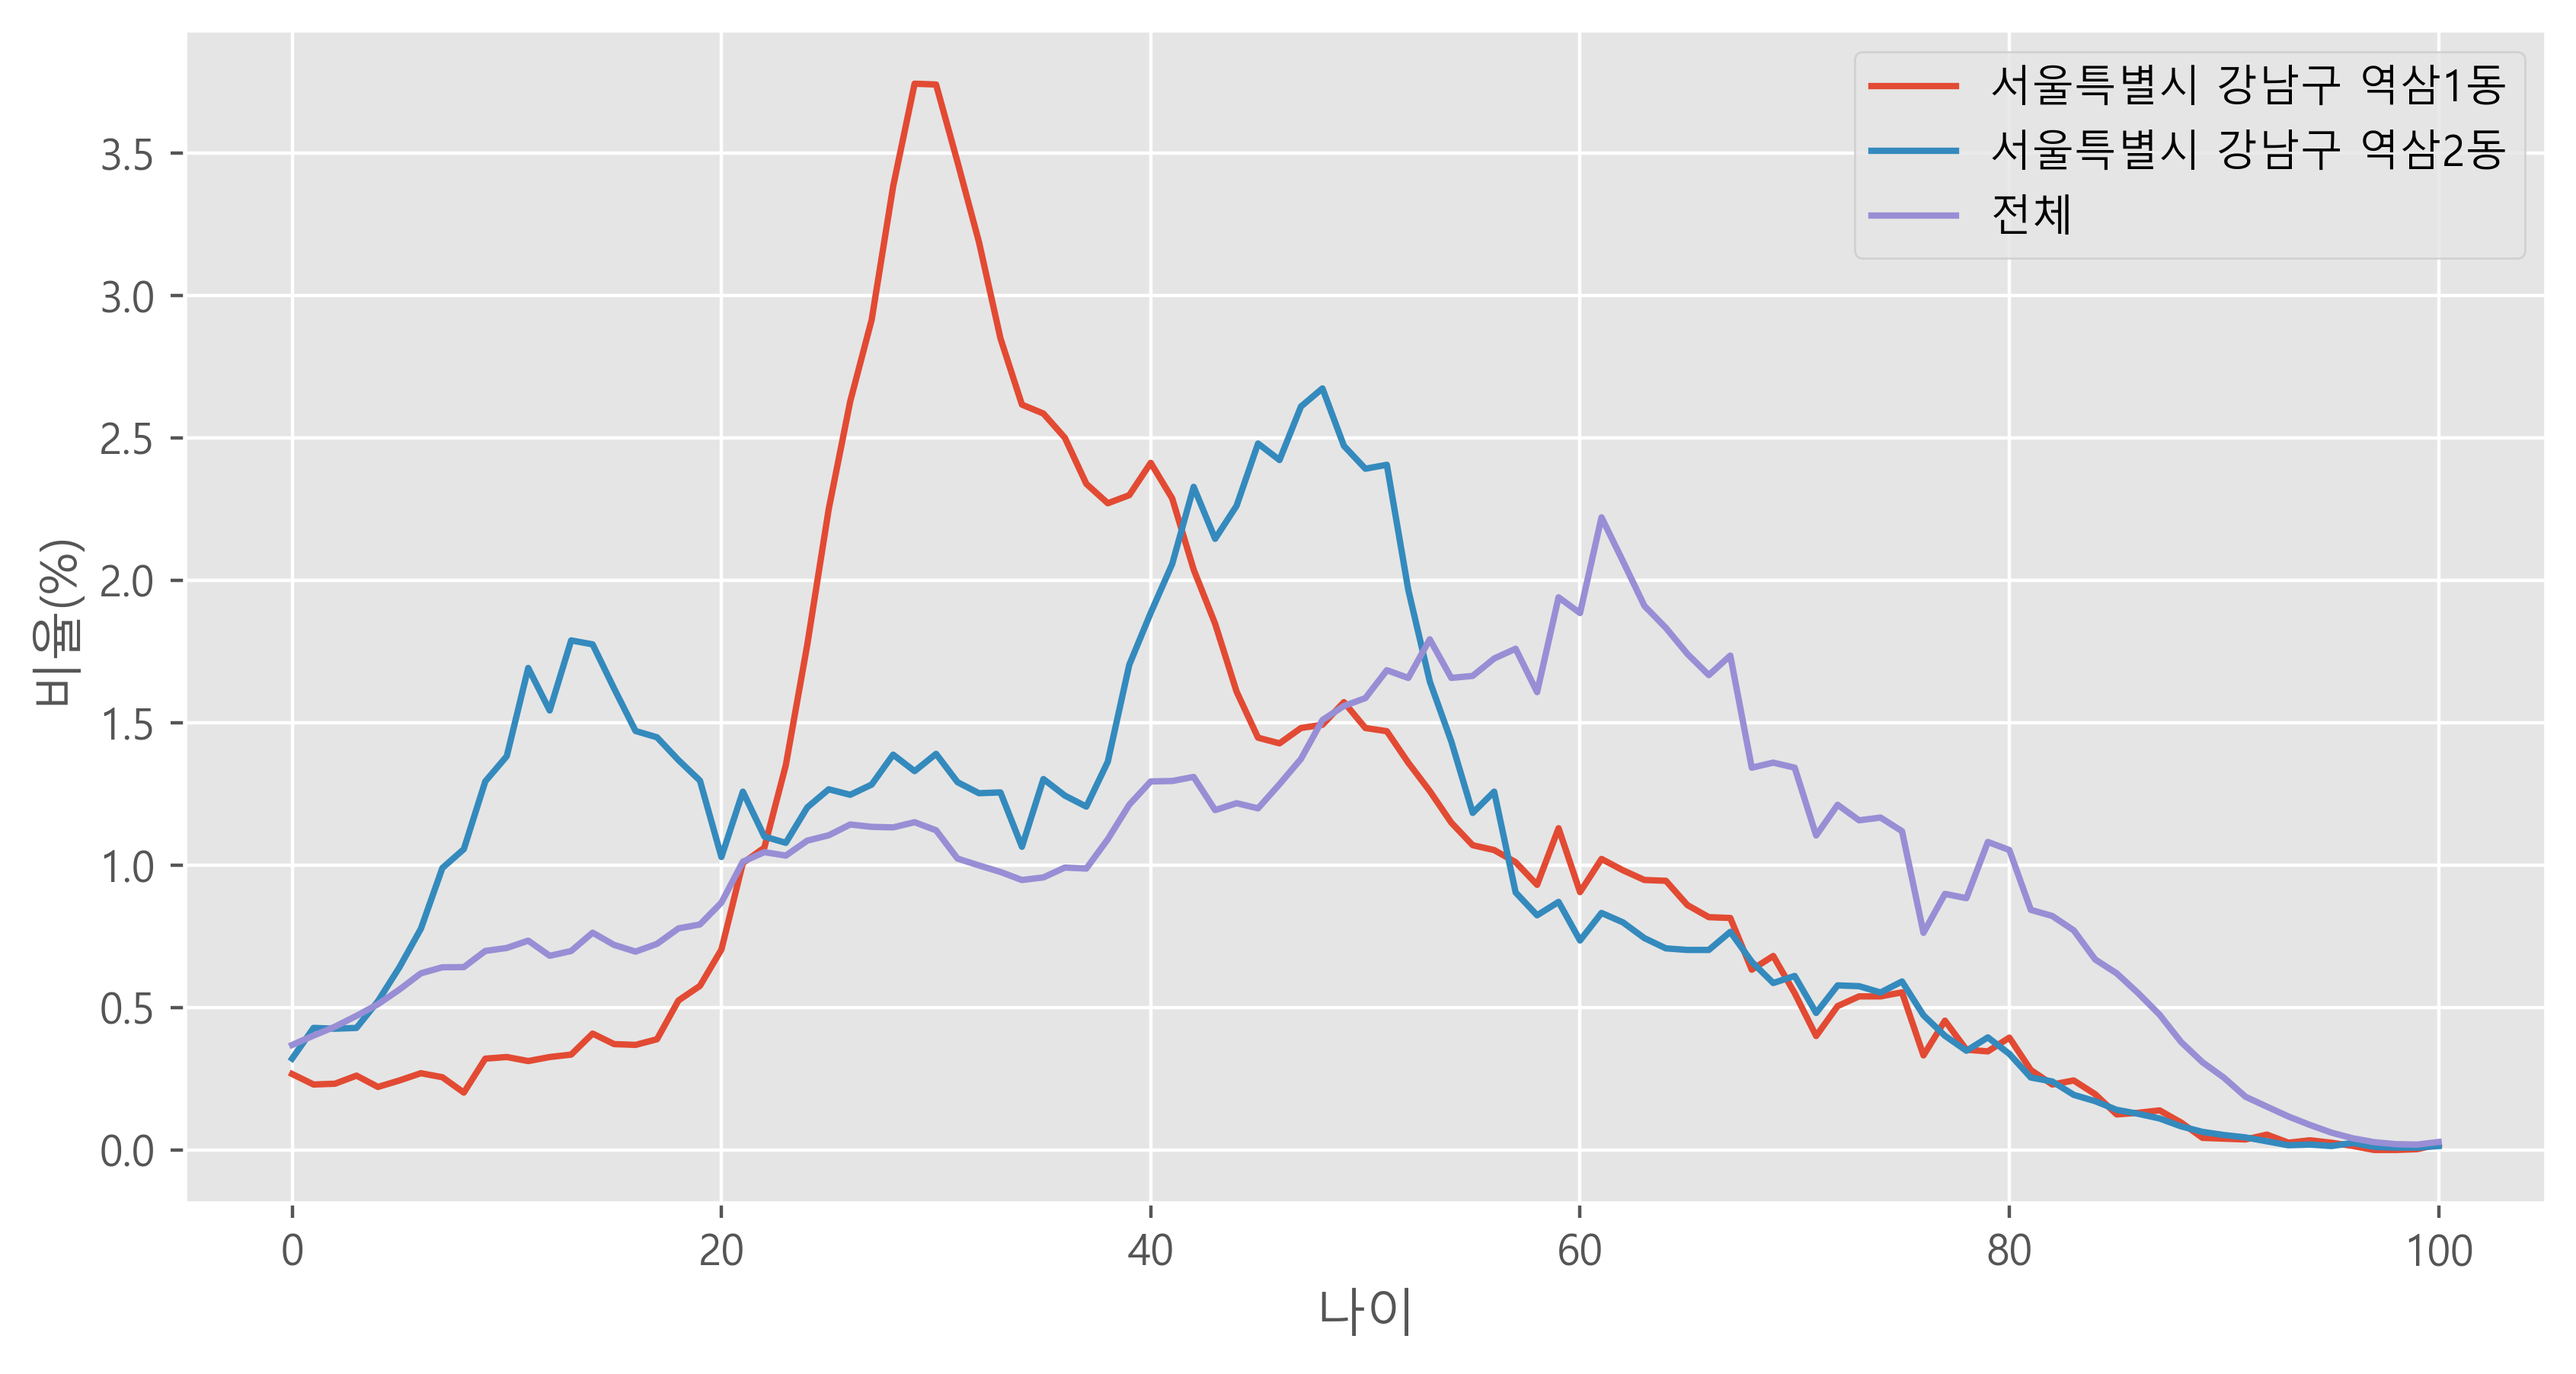
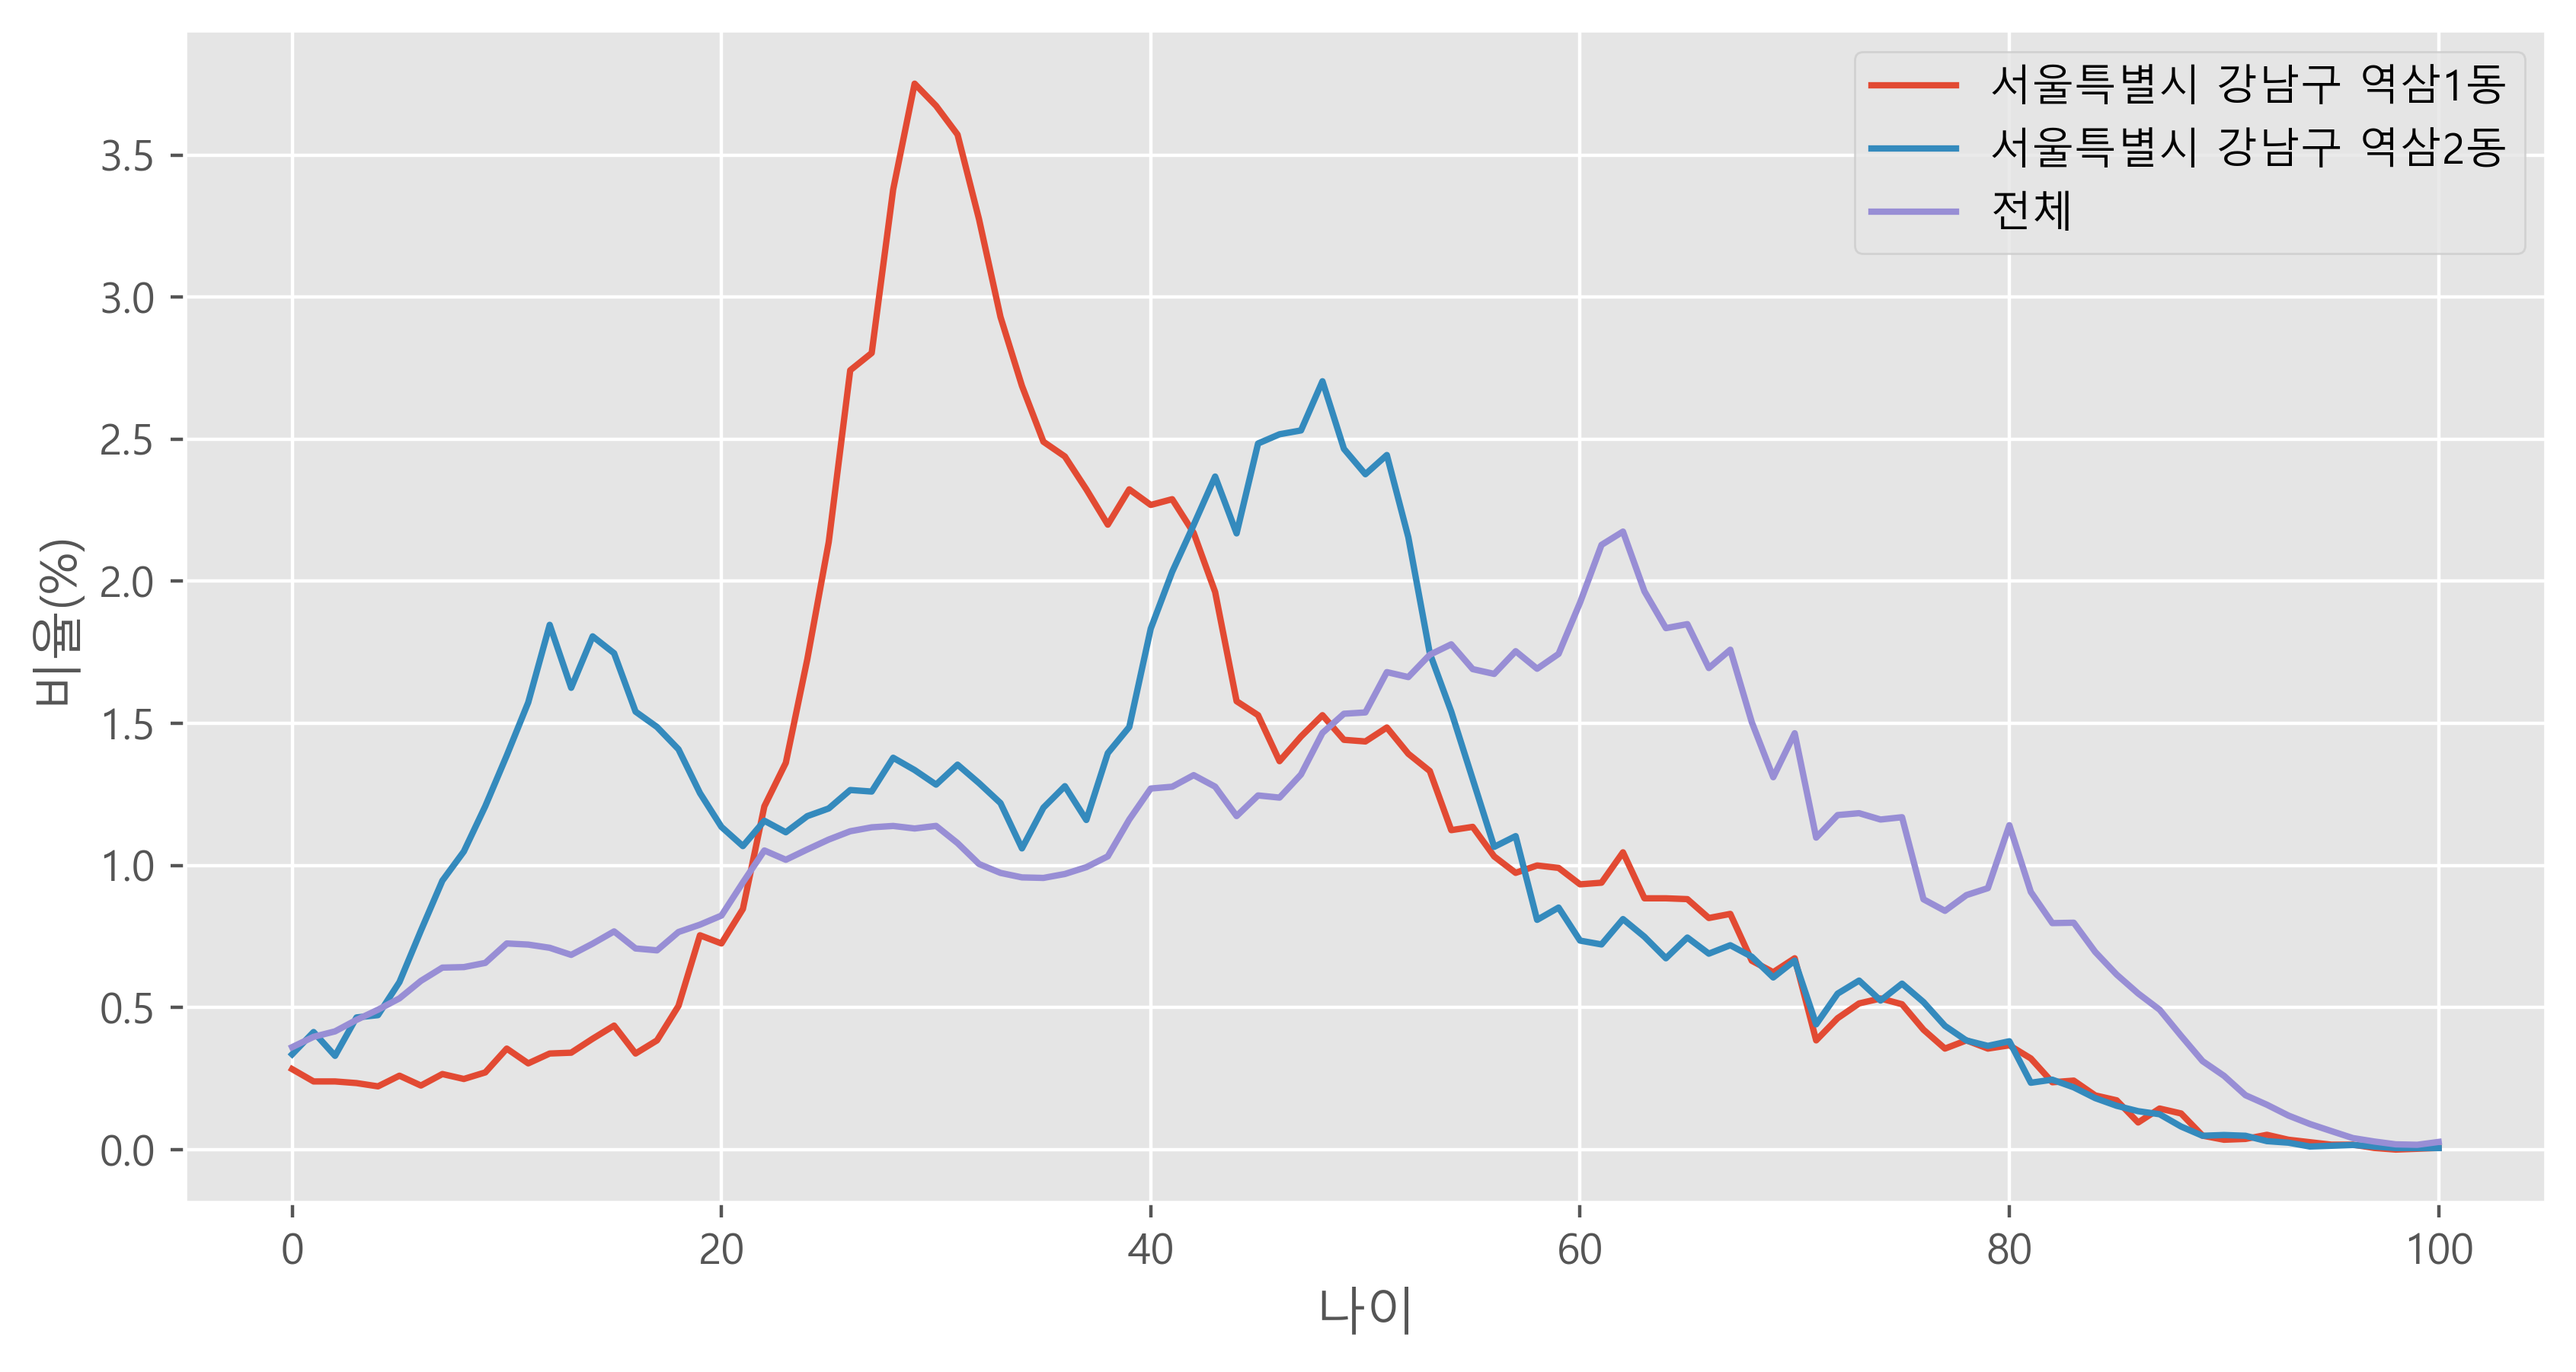
'20221209-0942'

diff --git a/수업소스/test1208_a.py b/수업소스/test1208_a.py
@@ -1,0 +1,249 @@
+# -*- coding: utf-8 -*-
+"""
+Created on Thu Dec  8 16:40:07 2022
+
+@author: KITCOOP
+test1208_a.py
+"""
+
+'''
+1. age.csv 파일에서 해당 지역의 인구비율과 전체지역의 인구 비율을 함께  
+   그래프로 작성하기
+   20221208-1.png 참조   
+'''
+###################### 1 #######################
+import numpy as np
+import csv
+import matplotlib.pyplot as plt
+import re
+f =open('data/age.csv')
+data = csv.reader(f)  #기본 인코딩:cp949. 맥:기본인코딩:UTF-8
+# data = csv.reader(f,encoding="cp949") #
+next(data) #한줄 읽기 첫줄을 버림.
+data=list(data) #리스트로 변경. IO스트림형태는 다시 읽기 못함.
+name='역삼' #행정구역이름이 역삼 이름이 있는 모든 지역 조회
+homelist=[]  #역삼이 있는 행정구역의 데이터들
+namelist=[]  #실제 행정 구역 이름 목록
+for row in data :
+     if row[0].find(name) >= 0 :
+        #숫자의 ,값을 제거 
+        row = list(map((lambda x:x.replace(",","")),row))
+        homelist.append \
+            (np.array(row[3:], dtype =int) / int(row[2]) *100) #비율%
+        namelist.append(re.sub('\(\\d*\)', '', row[0])) #() 제거
+        alldata = np.array(row[3:], dtype =int) / int(row[2])*100
+
+#전체 지역의 데이터 alldata에 저장
+for row in data :
+    row = list(map((lambda x:x.replace(",","")),row))
+    away = np.array(row[3:], dtype = int) / int(row[2]) *100
+    #np.isnan : 결측값?
+    if np.isnan(away).any() :  #away 데이터셋에 한개라도NA값이 존재하면 
+        continue    #반복문의 처음으로 
+    #vstack : 배열 행을 기준으로 합하기    
+    alldata = np.vstack((alldata,away))  #행을 기준으로 연결
+
+#연령별 연령별인구수/전체인구수 평균값
+alldata = alldata.mean(axis=0)  #열별 평균
+plt.style.use('ggplot')
+plt.figure(figsize = (10,5), dpi=100)
+plt.rc('font', family ='Malgun Gothic')
+for h,n in zip(homelist,namelist) :
+    plt.plot(h,label=n) 
+plt.plot(alldata, label="전체")
+plt.xlabel("나이")    
+plt.ylabel("비율(%)")    
+plt.legend()
+plt.show()
+plt.savefig("20221208-1.png",dpi=400,bbox_inches="tight")
+
+###################### 2 #######################
+import pandas as pd
+df = pd.read_csv\
+   ("data/age.csv",encoding="cp949",thousands=",",index_col=0)
+df.info()
+#컬럼명 다시 설정
+col_name=['총인구수','연령구간인구수']
+for i in range(0,101) : #0~100
+    col_name.append(str(i)+'세')
+col_name    
+df.columns = col_name
+df.columns
+#df의 모든 컬럼들을 총인구수로 나누기. 비율로 저장하기
+df = df.div(df["총인구수"],axis=0)
+del df["총인구수"],df["연령구간인구수"]
+df.info()
+df.fillna(0,inplace=True) #결측값을 0으로 치환
+name = "역삼"
+a = df.index.str.contains(name)
+a
+df2=df[a]
+df2 #지정 지역 데이터
+df2 *= 100  #비율%
+#이름들의 () 제거.
+names = list(df2.index)
+names = list(map(lambda x: x[:x.find('(')],names))
+df2.index = names
+df2.index
+#전체 인구수
+tot_mean = df.mean() * 100  #비율%
+tot_mean.name = "전체"
+df2.T.plot() #지정된 데이터 
+tot_mean.plot()
+plt.legend()
+plt.xlabel("나이")    
+plt.ylabel("비율(%)")    
+
+
+'''
+1-1. age.csv 파일에서 해당 지역의 인구비율과 
+    전체 인구 구조와 같은 지역 찾기
+'''
+###################### 1 #######################
+import numpy as np
+import csv
+import matplotlib.pyplot as plt
+import re
+f =open('data/age.csv')
+data = csv.reader(f)
+next(data) 
+data=list(data) 
+alldata = np.array([])
+for row in data :
+   row = list(map((lambda x:x.replace(",","")),row))
+   away = np.array(row[3:], dtype = int) / int(row[2])
+   if np.isnan(away).any() :  #away 데이터셋에 한개라도NA값이 존재하면 
+      continue 
+   if alldata.size == 0 :
+      alldata = away
+   else :   
+    alldata = np.vstack((alldata,away))  #행을 기준으로 연결
+
+#연령별 인구수/전체인구수 평균값
+alldata = alldata.mean(axis=0) 
+
+mn =1 
+for row in data:
+    row = list(map((lambda x:x.replace(",","")),row))
+    away = np.array(row[3:], dtype =int) /int(row[2])
+    s = np.sum((alldata - away) **2)
+    if s < mn:
+        mn = s
+        result = away
+        result_name =  row[0][:row[0].find('(')]
+        
+
+plt.style.use('ggplot')
+plt.figure(figsize = (10,5), dpi=100)            
+plt.rc('font', family ='Malgun Gothic')
+plt.title('전체 인구 구조와 가장 비슷한 인구 구조를 가진 지역')
+plt.plot(alldata, label = "전체")
+plt.plot(result, label = result_name)
+plt.xlabel("나이")    
+plt.ylabel("비율")    
+plt.legend()
+plt.show()
+plt.savefig("20221208-2.png",dpi=400,bbox_inches="tight")
+
+###################### 2 #######################
+import pandas as pd
+df = pd.read_csv("data/age.csv",encoding="cp949",thousands=",",index_col=0)
+df.info()
+col_name=['총인구수','연령구간인구수']
+for i in range(0,101) : #0~100
+    col_name.append(str(i)+'세')
+col_name    
+df.columns = col_name
+df.columns
+df = df.div(df["총인구수"],axis=0)
+
+del df["총인구수"],df["연령구간인구수"]
+df.info()
+df.fillna(0,inplace=True) #결측값을 0으로 치환
+tot_mean = df.mean()
+tot_mean.name="전체"
+mn=1
+for label,content in df.T.items() :
+    s=sum((content - tot_mean) ** 2)
+    if s < mn :
+        mn = s;
+        result = content
+        name = result.name
+        result.name = name[:name.find('(')]
+
+tot_mean.plot() #지정된 데이터 
+result.plot()
+plt.legend()        
+plt.title('전체 인구 구조와 가장 비슷한 인구 구조를 가진 지역')
+plt.xlabel("나이")    
+plt.ylabel("비율")    
+
+
+
+'''
+2. supplier_data.csv 파일을 pandas를 이용하여 읽고 
+ ["1/20/14","1/30/14"] 일자 데이터만 화면에 출력하기
+ isin() 함수 이용.
+'''
+
+import pandas as pd
+
+infile='data/supplier_data.csv'
+df = pd.read_csv(infile)
+print(df);
+print(df.info());
+importdate = ["1/20/14","1/30/14"]
+df_inset = df.loc[df["Purchase Date"].isin(importdate),:]
+df_inset = df[df["Purchase Date"].isin(importdate)]
+print(df_inset)
+
+
+'''
+3.  supplier_data.csv 파일 데이터에서 Invoice Number가 920으로
+ 시작하는 레코드만 화면에 출력하기
+ startswith("920") 함수 이용 : 920문자열로 시작?
+''' 
+infile='data/supplier_data.csv'
+df = pd.read_csv(infile)
+print(df["Invoice Number"].str.startswith("920"))
+df_inset = df.loc[df["Invoice Number"].str.startswith("920"),:]
+df_inset = df[df["Invoice Number"].str.startswith("920")]
+print(df_inset)
+
+'''
+4. sales_2013.xlsx 파일 중 Purchase Date 컬럼의 값이 
+"01/24/2013"과 "01/31/2013" 인 행만 sales_2013_01.xlsx 파일로 저장하기
+ isin 함수 사용.
+'''
+import pandas as pd
+infile="data/sales_2013.xlsx"
+outfile = "data/sales_2013_01.xlsx"
+df = pd.read_excel(infile,"january_2013")
+print(df.info())
+print(df.head())
+df
+#엑셀파일의 날짜형태의 데이터 
+select_date = ['01/24/2013','01/31/2013']
+#select_date = ['2013-01-24','2013-01-31']
+df_value = df[df['Purchase Date'].isin(select_date)]
+df_value
+print(df_value.info())
+writer = pd.ExcelWriter(outfile)
+df_value.to_excel(writer,sheet_name="jan_13_output",index=False)
+writer.save()
+
+
+'''
+5. seaborn 모듈의 titanic 데이터를 이용하여 class별  
+   생존 인원을 출력하시오
+''' 
+import seaborn as sns
+titanic = sns.load_dataset('titanic')
+titanic.info()
+titanic.groupby(['class']).survived.sum() #생존인원수
+titanic.groupby(['class'])["survived"].sum() #생존인원수
+table = titanic.pivot_table\
+    (index=['survived'], columns=['class'], aggfunc='size')
+table
+
+

diff --git a/수업소스/20221209.py b/수업소스/20221209.py
@@ -1,0 +1,29 @@
+# -*- coding: utf-8 -*-
+"""
+Created on Thu Dec  8 16:50:57 2022
+
+@author: KITCOOP
+20221209.py
+"""
+
+'''
+  데이터 전처리 : 원본데이터를 원하는 형태로 변경 과정. 
+    1. 결측값 처리 : 값이 없는 경우.
+        - isnull() : 결측값인 경우 True, 일반값인 경우 False
+        - notnull() : 결측값인 경우 False, 일반값인 경우 True
+        - dropna() : 결측값 제거 함수
+              dropna(axis=1,thresh=500) : 결측값이 500개 이상인 컬럼 제거
+              dropna(subser=[컬럼명],how=any/all, axis=0) :결측값을 가지고 있는 행 제거
+        - fillna :결측값 치환
+           fillna(치환값,inplace=True)
+           fillna(방법,inplace=True) : method="ffill"/"bfill"
+    2. 중복데이터 처리 
+       - duplicated() : 중복데이터 찾기. 첫번째 데이터는 False, 같은 데이터인 경우 두번째 True       
+       - drop_duplicates() : 중복데이터를 제거. 중복된 데이터 중 한개는 남김.
+    3. 새로운 컬럼 생성
+       - df[컬럼명] : 컬럼명이 없는 경우 생성, 있으면 수정.
+       - round(자리수) : 반올림.    
+    4. 오류데이터 존재.
+       - 결측값 치환 : 결측값(np.nan) 
+                 replace(오류문자열, np.nan, inplace=True)
+'''     
